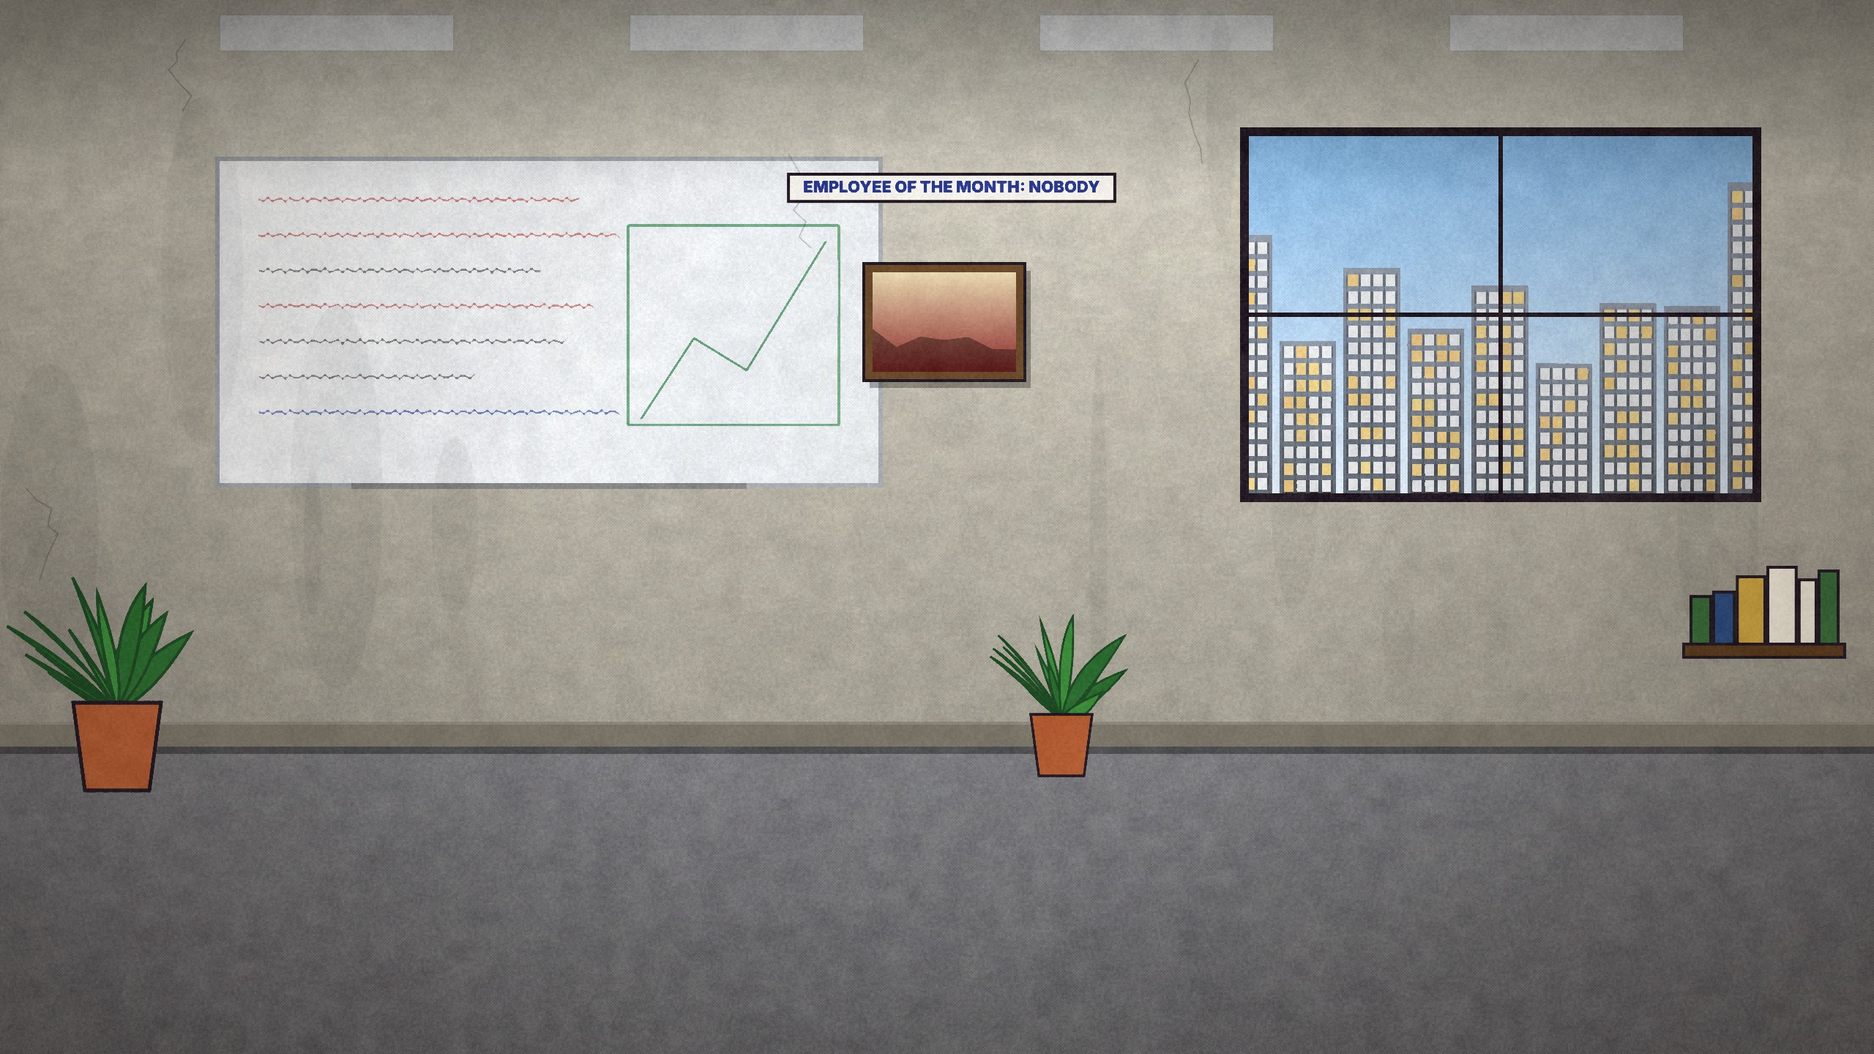
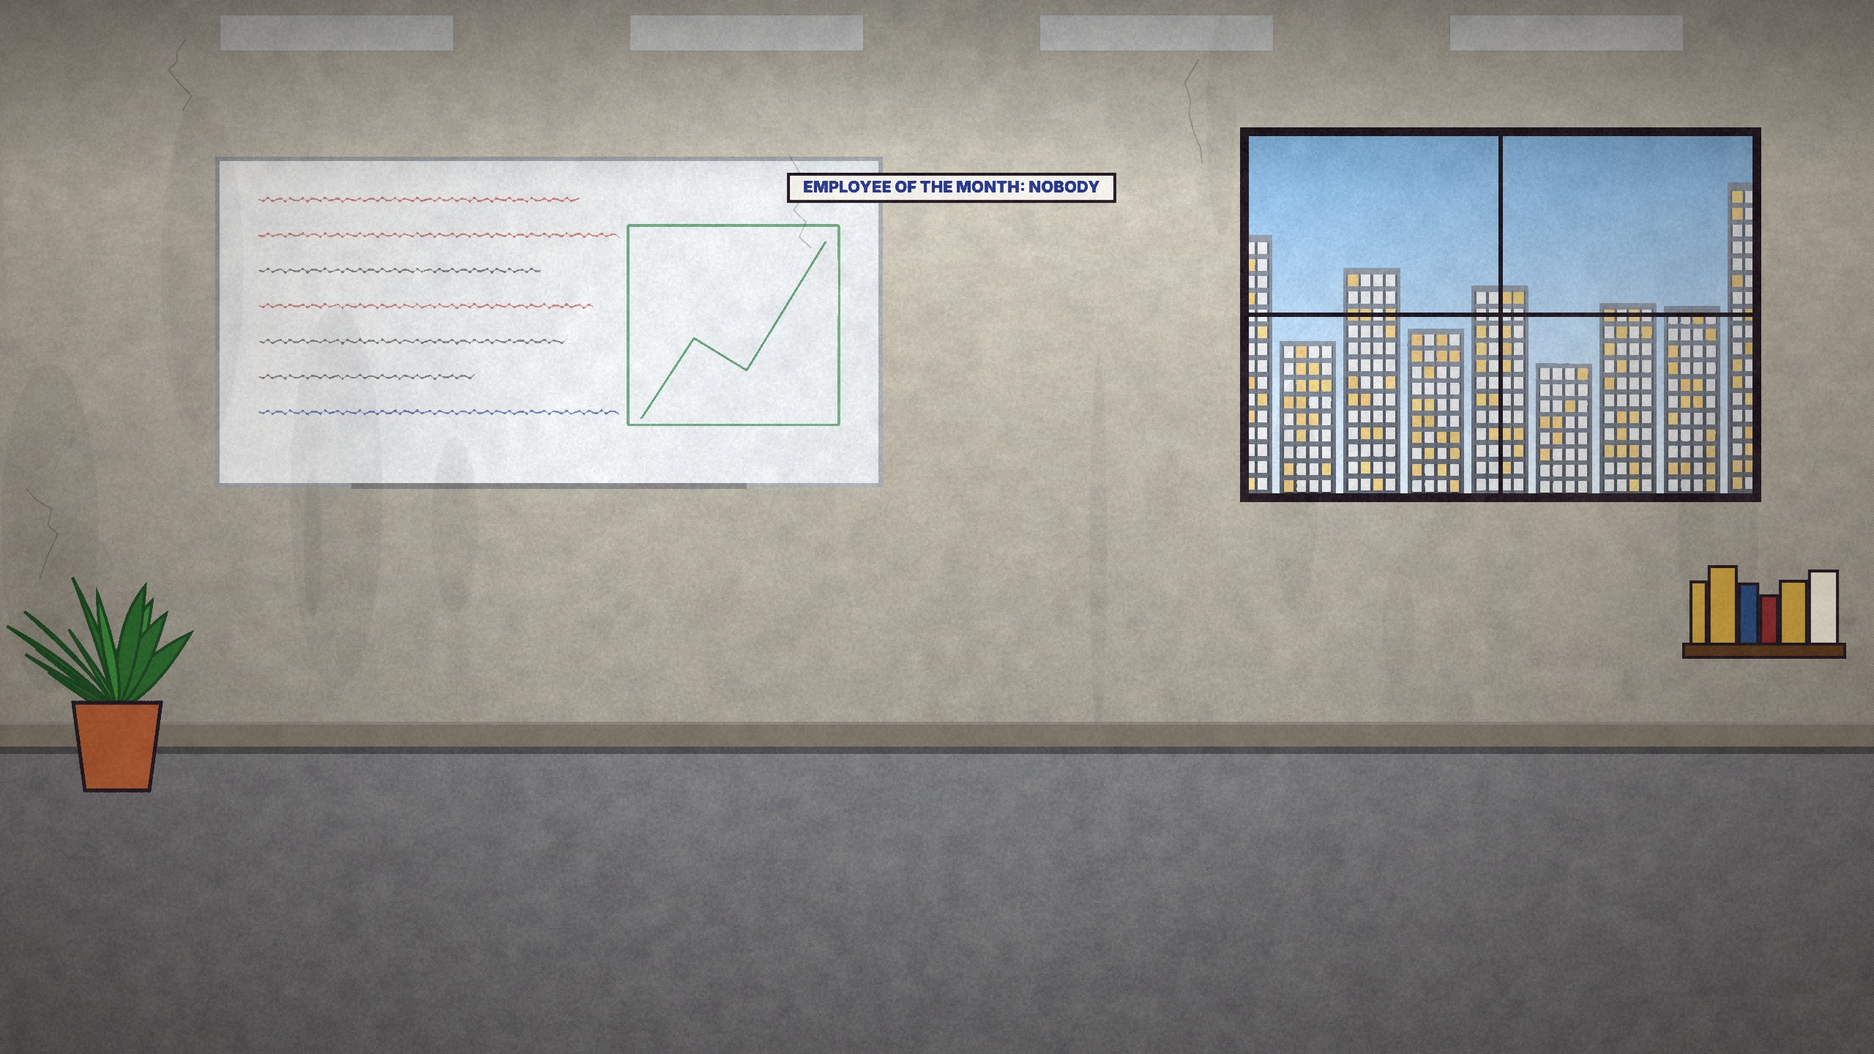
DumDown Deadpool 2: QA fixes (dress props, device in hand, grades), gags, assemble, chapters, thumb
Claude-Session: https://claude.ai/code/session_01CFreaN5kW6ZNcy992vtCRt

Changed region(s): [[0.4375, 0.25, 0.5625, 0.375], [0.875, 0.5312, 1.0, 0.625], [0.5312, 0.5938, 0.5938, 0.75]]

diff --git a/dumdown/scripts/deadpool-2/animation/plates.js b/dumdown/scripts/deadpool-2/animation/plates.js
@@ -83,12 +83,12 @@ PLATES.icebox = (c, r, W, H) => { wash(c, r, [0, 0, W, H], '#2a3a4e', '#0a1220')
   floor(c, r, 1000, '#5a6676', '#3a4656', false); for (let i = 0; i < 6; i++) { c.strokeStyle = '#ffd23d'; c.lineWidth = 10; c.setLineDash([60, 40]); c.beginPath(); c.moveTo(0, 1060 + i * 70); c.lineTo(W, 1060 + i * 70); c.stroke(); c.setLineDash([]); break; }
   for (let i = 0; i < 260; i++) { c.fillStyle = 'rgba(220,240,255,.5)'; c.fillRect(r() * W, r() * H, 2, 2); } finish(c, r, W, H, { oil: 2, grain: 12, vig: .55 }); };
 // 12. The pit in the Icebox basement: chains, dark, two red eyes possible
-PLATES.pit = (c, r, W, H) => { wash(c, r, [0, 0, W, H], '#121822', '#040608'); brutalWall(c, r, 0, 0, W, 1100, '#222a34'); c.fillStyle = '#05070a'; c.beginPath(); c.ellipse(1280, 1180, 900, 220, 0, 0, 7); c.fill();
+PLATES.pit = (c, r, W, H) => { wash(c, r, [0, 0, W, H], '#121822', '#040608'); brutalWall(c, r, 0, 0, W, 1100, '#3a4452'); c.fillStyle = '#05070a'; c.beginPath(); c.ellipse(1280, 1180, 900, 220, 0, 0, 7); c.fill();
   for (let i = 0; i < 8; i++) { const x = 600 + i * 190; c.strokeStyle = '#5a6270'; c.lineWidth = 10; c.setLineDash([24, 10]); c.beginPath(); c.moveTo(x, 0); c.quadraticCurveTo(x + 40, 600, 1280 + (x - 1280) * .3, 1150); c.stroke(); c.setLineDash([]); }
   glow(c, 1280, 200, 500, '#6a8aff', .15); finish(c, r, W, H, { oil: 2, grain: 12, vig: .7 }); };
 // 13. Night road with lightning crater
-PLATES.road_night = (c, r, W, H) => { M.sky(c, r, W, 900, '#04040c', '#1a1a3a'); M.clouds(c, r, W, 40, 400, 10, '#3a3a5a', '#0a0a18'); M.distantTrees(c, r, W, 900, 50, '#0a0e14');
-  pr(c, r, 0, 900, W, 540, '#1a1a20', { density: 120 }); for (let i = 0; i < 6; i++) { c.fillStyle = 'rgba(232,220,160,.6)'; c.fillRect(i * 460 + 80, 1180, 220, 16); }
+PLATES.road_night = (c, r, W, H) => { M.sky(c, r, W, 900, '#0c0e22', '#2c2e5a'); M.clouds(c, r, W, 40, 400, 10, '#3a3a5a', '#0a0a18'); M.distantTrees(c, r, W, 900, 50, '#0a0e14');
+  pr(c, r, 0, 900, W, 540, '#2c2c36', { density: 120 }); for (let i = 0; i < 6; i++) { c.fillStyle = 'rgba(232,220,160,.6)'; c.fillRect(i * 460 + 80, 1180, 220, 16); }
   c.fillStyle = '#0a0a0e'; c.beginPath(); c.ellipse(1280, 1120, 420, 80, 0, 0, 7); c.fill(); glow(c, 1280, 1100, 500, '#6ab4ff', .4); finish(c, r, W, H, { oil: 2, grain: 12, vig: .6 }); };
 // 14. Weasel's bar: dim, neon beer signs, bottles
 PLATES.bar = (c, r, W, H) => { wash(c, r, [0, 0, W, H], '#3a2418', '#120a06'); pr(c, r, 0, 0, W, 1000, '#4a2c1a', { density: 140 });
@@ -148,13 +148,13 @@ function cam(c, x, y) { c.fillStyle = '#d8d8d0'; c.strokeStyle = INK; c.lineWidt
 function rivets(c, fy) { c.fillStyle = 'rgba(200,210,220,.35)'; for (let x = 40; x < 2560; x += 80) for (let y = 60; y < fy; y += 300) { c.beginPath(); c.arc(x, y, 5, 0, 7); c.fill(); } }
 const DRESS = {
   apt_barrels: (c, r) => { grime(c, r, 1060); base(c, 1060, '#2a1a14'); planks(c, r, 1060); sconce(c, 1450, 480, '#ffb070'); frame(c, r, 1280, 250, 180, 140, 3); shelf(c, r, 2340, 760, 200); pendant(c, 900, 120, '#ffb070'); },
-  apt_warm: (c, r) => { grime(c, r, 1060, .6); base(c, 1060, '#2a1a14'); planks(c, r, 1060); sconce(c, 1250, 470); frame(c, r, 180, 300, 200, 160, 0); frame(c, r, 1350, 640, 150, 120, 1); plant(c, r, 1060, 1100, .9); shelf(c, r, 120, 760, 240); },
-  bar: (c, r) => { grime(c, r, 1000, .5); [500, 1280, 2060].forEach(x => pendant(c, x, 60, '#ffc070')); sign(c, 1280, 760, 'NO CAPES', '#1a1214', '#ff5a3a', 30); },
+  apt_warm: (c, r) => { grime(c, r, 1060, .6); base(c, 1060, '#2a1a14'); planks(c, r, 1060); sconce(c, 1250, 470); frame(c, r, 180, 300, 200, 160, 0); frame(c, r, 1350, 640, 150, 120, 1); shelf(c, r, 120, 760, 240); },
+  bar: (c, r) => { grime(c, r, 1000, .5); [500, 1280, 2060].forEach(x => pendant(c, x, 60, '#ffc070')); },
   classroom: (c, r) => { grime(c, r, 1040, .5); base(c, 1040, '#5a4a3a'); planks(c, r, 1040); frame(c, r, 300, 300, 180, 220, 1); plant(c, r, 2460, 1090, .9); sign(c, 1500, 800, 'NO POWERS IN CLASS', '#f4f1ea', '#a01a1a', 26); [700, 1600].forEach(x => pendant(c, x, 40, '#fff4d8')); },
-  office: (c, r) => { grime(c, r, 1020, .4); base(c, 1020, '#7a7468'); plant(c, r, 160, 1080, 1); plant(c, r, 1450, 1060, .7); sign(c, 1300, 260, 'EMPLOYEE OF THE MONTH: NOBODY', '#f4f1ea', '#2a3990', 22); frame(c, r, 1180, 360, 220, 160, 2); shelf(c, r, 2300, 880, 220); },
+  office: (c, r) => { grime(c, r, 1020, .4); base(c, 1020, '#7a7468'); plant(c, r, 160, 1080, 1); sign(c, 1300, 260, 'EMPLOYEE OF THE MONTH: NOBODY', '#f4f1ea', '#2a3990', 22); shelf(c, r, 2300, 880, 220); },
   future_home: (c, r) => { grime(c, r, 1040, .5); base(c, 1040, '#2a2a3a'); planks(c, r, 1040, '#3a3a4a'); frame(c, r, 1150, 330, 240, 180, 1); plant(c, r, 2400, 1090, .8); sconce(c, 900, 470, '#c8d8ff'); },
   mansion_hall: (c, r) => { grime(c, r, 1040, .4); base(c, 1040, '#3a2414'); planks(c, r, 1100); [500, 1280, 2060].forEach(x => sconce(c, x, 640, '#ffd890')); plant(c, r, 140, 1110, 1.1); plant(c, r, 2420, 1110, 1.1); },
-  icebox: (c, r) => { grime(c, r, 1000, 1.2); pipe(c, 130); rivets(c, 1000); stripes(c, 0, 960, 2560, 40); sign(c, 1280, 330, 'BLOCK C · MUTANTS', '#e8e0c8', '#a01a1a', 34); cam(c, 1220, 600); cam(c, 2480, 260); },
+  icebox: (c, r) => { grime(c, r, 1000, 1.2); pipe(c, 130); rivets(c, 1000); stripes(c, 0, 960, 2560, 40); sign(c, 1280, 330, 'BLOCK C · MUTANTS', '#e8e0c8', '#a01a1a', 34); cam(c, 2480, 260); },
   truck: (c, r) => { grime(c, r, 1060, 1); pipe(c, 110, '#3a3a40'); rivets(c, 1060); stripes(c, 0, 1020, 2560, 36); sign(c, 1280, 360, 'NO TALKING', '#ffd23d', '#1a1a1a', 34); },
 };
 for (const k in DRESS) { const f = PLATES[k]; if (!f) continue; PLATES[k] = (c, r, W, H) => { f(c, r, W, H); DRESS[k](c, r); finish(c, r, W, H, { oil: 1, grain: 6, vig: .25 }); }; }

diff --git a/dumdown/scripts/deadpool-2/animation/acts/act13.js b/dumdown/scripts/deadpool-2/animation/acts/act13.js
@@ -4,7 +4,7 @@ window.ACT = { timing: window.TIMING, shots: [
  { p: 0, f: .4, plate: 'bar', cam: { z: [1.3, 1.5], x: 1280, y: 880 }, chars: [{ c: 'wadeBaby', x: 1280, y: 1260, s: 1.5, expr: 'happy', pose: 'hips' }, { c: 'weasel', x: 1800, y: 1260, s: 1.45, view: 'threequarter', dir: -1, expr: 'shock' }], pops: [{ t: 'You cannot unsee this.', at: 2.5 }] },
  { p: 1, plate: 'apt_warm', grade: ['#1a1a3a', .35, 'multiply'], cam: { z: [1.3, 1.5], x: 1280, y: 820 }, chars: [{ c: 'wadeBaby', x: 1000, y: 1260, s: 1.5, view: 'threequarter', expr: 'smug', talk: true }, { c: 'cable', x: [1700, 1600], y: 1260, s: 1.35, view: 'threequarter', dir: -1, expr: 'deadpan', t0: 1.5 }, { c: 'weasel', x: [2000, 2500], y: 1260, s: 1.45, view: 'threequarter', expr: 'nervous' }] },
  { p: 2, plate: 'future_home', cam: { z: [1.2, 1.35], x: 1280, y: 820 }, props: [{ k: 'teddy', x: 1520, y: 1150, s: .7, clean: true, layer: 'front' }], chars: [{ c: 'cableWife', x: 1050, y: 1260, s: 1.45, view: 'threequarter', expr: 'smile' }, { c: 'hope', x: 1450, y: 1260, s: 1.45, view: 'threequarter', dir: -1, expr: 'happy' }], grade: ['#8ac0ff', .25] },
- { p: 2, f: .55, plate: 'future_home', grade: ['#1a1020', .7, 'multiply'], cam: { z: [2.0, 2.5], x: 1300, y: 1150 }, props: [{ k: 'teddy', x: 1300, y: 1240, s: .8 }], fx: ['snow'], pops: [{ t: 'Her bear.', at: 1 }] },
+ { p: 2, f: .55, plate: 'future_home', grade: ['#2a2040', .35, 'multiply'], cam: { z: [2.0, 2.5], x: 1300, y: 1150 }, props: [{ k: 'teddy', x: 1300, y: 1240, s: .8 }], fx: ['snow'], pops: [{ t: 'Her bear.', at: 1 }] },
  { p: 3, plate: 'apt_warm', grade: ['#1a1a3a', .35, 'multiply'], cam: { z: [1.5, 1.7], x: 1280, y: 800 }, chars: [{ c: 'wadeBaby', x: 1050, y: 1260, s: 1.5, view: 'threequarter', expr: 'sad' }, { c: 'cable', x: 1600, y: 1260, s: 1.35, view: 'threequarter', dir: -1, expr: 'sad', talk: true }], pops: [{ t: 'SO HE\'S... KIND OF RIGHT.', at: 4 }] },
  { p: 4, plate: 'apt_warm', cam: { z: [1.9, 2.1], x: 1300, y: 800 }, chars: [{ c: 'wadeBaby', x: 1100, y: 1260, s: 1.5, view: 'threequarter', expr: 'smug', pose: 'point' }, { c: 'cable', x: 1550, y: 1260, s: 1.35, view: 'threequarter', dir: -1, expr: 'deadpan' }], big: ['30 SECONDS', 4.4, 8.2, '#ffd23d'] },
 ]};

diff --git a/dumdown/scripts/deadpool-2/animation/acts/act03.js b/dumdown/scripts/deadpool-2/animation/acts/act03.js
@@ -5,6 +5,6 @@ window.ACT = { timing: window.TIMING, shots: [
  { p: 1, plate: 'apt_warm', cam: { z: [1.5, 1.7], x: 1130, y: 800 }, chars: [{ c: 'wadeFace', x: 900, y: 1250, s: 1.55, view: 'threequarter', expr: 'shock' }, { c: 'vanessa', x: 1350, y: 1250, s: 1.5, view: 'threequarter', dir: -1, expr: 'happy', talk: true }], pops: [{ t: 'Baby names: Todd? Cher?', at: 4 }] },
  { p: 2, plate: 'apt_warm', cam: { z: [1.8, 2.0], x: 1350, y: 720 }, chars: [{ c: 'vanessa', x: 1350, y: 1250, s: 1.5, view: 'threequarter', dir: -1, expr: 'smile', talk: true }] },
  { p: 2, f: .55, plate: 'apt_warm', cam: { z: [1.8, 2.0], x: 900, y: 720 }, chars: [{ c: 'wadeFace', x: 900, y: 1250, s: 1.55, view: 'threequarter', expr: 'sad' }], pops: [{ t: '"Better than we used to be."', at: .3 }] },
- { p: 3, plate: 'apt_warm', grade: ['#1a1030', .5, 'multiply'], cam: { z: [1.2, 1.35], x: 1500, y: 800, shake: 6 }, props: [{ k: 'gun', on: 0, x: 0, y: 0, dx: -18, dy: -22, s: .45, dir: -1, layer: 'front' }], chars: [{ c: 'thug', x: 2150, y: 1250, s: 1.5, view: 'threequarter', dir: -1, expr: 'angry', pose: 'point' }, { c: 'vanessa', x: 1200, y: 1250, s: 1.5, view: 'threequarter', expr: 'shock' }] },
- { p: 4, plate: 'apt_warm', grade: ['#101020', .6, 'multiply'], cam: { z: [2.6, 3.2], x: 1280, y: 1150 }, props: [{ k: 'token', x: [1100, 1280], y: 1180, s: 1.3, spin: 1 }] },
+ { p: 3, plate: 'apt_warm', grade: ['#1a1030', .35, 'multiply'], cam: { z: [1.2, 1.35], x: 1500, y: 800, shake: 6 }, props: [{ k: 'gun', on: 0, x: 0, y: 0, dx: -18, dy: -22, s: .45, dir: -1, layer: 'front' }], chars: [{ c: 'thug', x: 2150, y: 1250, s: 1.5, view: 'threequarter', dir: -1, expr: 'angry', pose: 'point' }, { c: 'vanessa', x: 1200, y: 1250, s: 1.5, view: 'threequarter', expr: 'shock' }] },
+ { p: 4, plate: 'apt_warm', grade: ['#101020', .4, 'multiply'], cam: { z: [2.6, 3.2], x: 1280, y: 1150 }, props: [{ k: 'token', x: [1100, 1280], y: 1180, s: 1.3, spin: 1 }] },
 ]};

diff --git a/dumdown/scripts/deadpool-2/animation/gags/gags.js b/dumdown/scripts/deadpool-2/animation/gags/gags.js
@@ -166,9 +166,11 @@ S.reviews = async t => {
   const sw = ev('swipe'), k = io(seg(t, sw, sw + .35));
   const card = (y, who, n, lines, al) => { ctx.globalAlpha = al; rr(240, y, W - 480, 230, 16, '#fff', '#d0d0d8', 3); ctx.fillStyle = '#c8d8e8'; ctx.beginPath(); ctx.arc(320, y + 60, 40, 0, 7); ctx.fill(); txt(who, 380, y + 50, 30, '#231A24', { align: 'left' }); stars(390, y + 92, n, 34);
     lines.forEach((l, i) => txt(l, 280, y + 140 + i * 40, 30, '#333', { align: 'left', w: 600 })); ctx.globalAlpha = 1; };
+  const sc = t * 9; ctx.save(); ctx.translate(0, -sc);
   const r1 = seg(t, sp('READ').t0 - .2, sp('READ').t0 + .2);
   card(BAR + 130 - 300 * k, 'Russell, 14', 1, ['Room was cold. Staff were cold. Food was cold.', 'My neighbour was a giant man in the basement. Would not recommend.'], r1 * (1 - k));
   if (t > sw) card(BAR + 130 + 260 * (1 - k), 'Anonymous critic', 1, ['Too much foreshadowing.'], k);
+  ctx.restore(); { const cx = 900 + Math.sin(t * .9) * 420, cy = 640 + Math.sin(t * 1.3) * 160; ctx.fillStyle = '#fff'; ctx.strokeStyle = '#231A24'; ctx.lineWidth = 4; ctx.beginPath(); ctx.moveTo(cx, cy); ctx.lineTo(cx, cy + 56); ctx.lineTo(cx + 14, cy + 42); ctx.lineTo(cx + 30, cy + 70); ctx.lineTo(cx + 40, cy + 64); ctx.lineTo(cx + 26, cy + 38); ctx.lineTo(cx + 44, cy + 36); ctx.closePath(); ctx.fill(); ctx.stroke(); }
   if (t > sp('READ', 3).t0) { ctx.save(); ctx.translate(W - 420, H - BAR - 160); ctx.rotate(-.1); rr(-170, -50, 340, 100, 12, '#e23a3a', '#231A24', 6); txt('VERIFIED STAY', 0, 2, 34, '#fff'); ctx.restore(); } };
 S.gate = async t => {
   const cam = camW(t, { z: 1.1, x: 1280, y: 780 }); apply(cam); wall('#c8d4e0', '#9aa8b8', 1180, '#6a7480', '#3a424c');

diff --git a/dumdown/scripts/deadpool-2/animation/acts/act17.js b/dumdown/scripts/deadpool-2/animation/acts/act17.js
@@ -1,6 +1,6 @@
 // Act 17: THE END-CREDITS FIXES
 window.ACT = { timing: window.TIMING, shots: [
- { p: 0, plate: 'mansion_hall', title: ['BONUS', 'End-Credits Fixes'], cam: { z: [1.3, 1.5], x: 1280, y: 820 }, props: [{ k: 'device', x: 1280, y: 1000, s: 1, charges: 2 }], chars: [{ c: 'nega', x: 1000, y: 1260, s: 1.4, view: 'threequarter', expr: 'deadpan' }, { c: 'yukio', x: 1550, y: 1260, s: 1.4, view: 'threequarter', dir: -1, expr: 'happy' }] },
+ { p: 0, plate: 'mansion_hall', title: ['BONUS', 'End-Credits Fixes'], cam: { z: [1.3, 1.5], x: 1280, y: 820 }, props: [{ k: 'device', on: 1, side: 'R', s: .5, charges: 2, layer: 'front' }], chars: [{ c: 'nega', x: 1000, y: 1260, s: 1.4, view: 'threequarter', expr: 'deadpan' }, { c: 'yukio', x: 1550, y: 1260, s: 1.4, view: 'threequarter', dir: -1, expr: 'happy' }] },
  { p: 0, f: .55, plate: 'mansion_hall', fx: ['flash'], cam: { z: [1.6, 1.4], x: 1280, y: 820, shake: 12 }, props: [{ k: 'portalRing', x: 1280, y: 1250, s: 1 }], chars: [{ c: 'wade', x: 1280, y: 1260, s: 1.5, expr: 'excited', pose: 'fistPump' }] },
  { p: 1, plate: 'apt_warm', fx: ['flash'], cam: { z: [1.3, 1.45], x: 1280, y: 820 }, chars: [{ c: 'wade', x: 1100, y: 1260, s: 1.5, view: 'threequarter', expr: 'happy' }, { c: 'vanessa', x: 1500, y: 1260, s: 1.45, view: 'threequarter', dir: -1, expr: 'happy' }], pops: [{ t: 'Saved: Vanessa', at: .4, dur: 2 }] },
  { p: 1, f: .3, plate: 'mansion_ext', fx: ['flash'], cam: { z: [1.3, 1.45], x: 1280, y: 820 }, chars: [{ c: 'peter', x: 1280, y: 1300, s: 1.4, expr: 'happy', pose: 'thumbsUp' }], pops: [{ t: 'Saved: Peter', at: .3, dur: 2 }] },

diff --git a/dumdown/scripts/deadpool-2/animation/page_thumb.html b/dumdown/scripts/deadpool-2/animation/page_thumb.html
@@ -1,0 +1,7 @@
+<!doctype html><html><head><meta charset="utf-8"></head><body style="margin:0;background:#000"><canvas id="c" width="1920" height="1080"></canvas>
+<script src="kit.js"></script>
+<script>var module = { exports: {} }; var require = () => window.DumDown;</script>
+<script src="cast.cjs"></script>
+<script>window.CAST = module.exports.C; window.PLATE_NAMES = ["apt_barrels", "apt_warm", "bar", "classroom", "comic", "dream", "future_home", "heaven", "highway", "hongkong", "icebox", "mansion_ext", "mansion_hall", "nyc_street", "office", "orphanage", "orphanage_fire", "pit", "road_night", "rooftop_dusk", "sky_drop", "truck"]; window.LEAD = 0.6; window.TIMING = {durs:[3],gap:.35};</script>
+<script src="engine.js"></script><script src="fx.js"></script><script src="cards.js"></script><script src="props.js"></script>
+<script src="thumb/thumb_act.js"></script><script src="shots.js"></script></body></html>

diff --git a/dumdown/scripts/deadpool-2/animation/thumb/thumb_act.js b/dumdown/scripts/deadpool-2/animation/thumb/thumb_act.js
@@ -1,0 +1,5 @@
+// Thumbnail scene (rendered as a one-shot act, text added in thumb_mk.py)
+window.ACT = { timing: { durs: [3], gap: .35 }, tail: 0, shots: [
+ { p: 0, plate: 'orphanage_fire', grade: ['#ff6a2a', .22], noHeadFit: true, cam: { z: [2.2, 2.2], x: 1540, y: 860 }, props: [{ k: 'gun', on: 0, dx: -20, dy: -24, s: .5, layer: 'front', dir: -1 }, { k: 'token', x: 1652, y: 915, s: .95, layer: 'front' }],
+   chars: [{ c: 'cable', x: 1990, y: 1330, s: 1.45, view: 'threequarter', dir: -1, expr: 'angry', pose: 'point' }, { c: 'wade', x: 1650, y: 1330, s: 1.6, view: 'threequarter', dir: 1, expr: 'shock' }] },
+]};

diff --git a/dumdown/scripts/deadpool-2/animation/assemble_full.py b/dumdown/scripts/deadpool-2/animation/assemble_full.py
@@ -1,18 +1,18 @@
-# Assemble the Loki S1+S2 full video with ONE lossy video encode (CFR 24 fps).
+# Assemble the Deadpool 2 full video with ONE lossy video encode (CFR 24 fps).
 # Segments (act pieces + gags spliced in at their act points) are decoded one at a time and piped as raw frames
 # into a single x264 encoder, so memory stays flat (a 42-input filter graph ran out of memory).
 # Audio is cut at the same frame boundaries (2000 samples per frame at 48 kHz), joined as PCM, then two-pass loudnorm -14.
 import json, subprocess, sys, os, wave
 sys.path.insert(0, 'gags'); from gags_data import G
-SCR = '/tmp/claude-0/-home-user/acf60ddd-1269-5955-894d-60b48246689c/scratchpad/loki'
-OUT = f'{SCR}/full/DumDown_Loki_S1S2_FULL_v1.mp4'; os.makedirs(f'{SCR}/full', exist_ok=True)
+SCR = os.environ.get('SCR', '/tmp/dp2work')
+OUT = f'{SCR}/full/DumDown_Deadpool2_FULL_v1.mp4'; os.makedirs(f'{SCR}/full', exist_ok=True)
 def dur(f): return float(subprocess.run(['ffprobe', '-v', 'error', '-show_entries', 'format=duration', '-of', 'csv=p=0', f], capture_output=True, text=True).stdout)
 segs = []  # (video, audio, start_frame, n_frames)
-for n in range(15):
+for n in range(19):
     v = f'{SCR}/acts/act{n:02d}.mp4'; a = f'{SCR}/mix/act{n:02d}.wav'; tot = round(min(dur(v), dur(a)) * 24)
-    pts = sorted([g for g in G if g['act'] == n], key=lambda g: g['at']); cuts = [0] + [round(g['at'] * 24) for g in pts] + [tot]
+    pts = sorted([g for g in G if g['act'] == n], key=lambda g: g['at']); cuts = [0] + [min(tot, round(g['at'] * 24)) for g in pts] + [tot]
     for k in range(len(cuts) - 1):
-        segs.append((v, a, cuts[k], cuts[k + 1] - cuts[k]))
+        if cuts[k + 1] > cuts[k]: segs.append((v, a, cuts[k], cuts[k + 1] - cuts[k]))
         if k < len(pts):
             gv = f'gags/out/gag{pts[k]["id"]:02d}.mp4'; segs.append((gv, gv, 0, round(dur(gv) * 24)))
 W, H, FB = 1920, 1080, 1920 * 1080 * 3 // 2
@@ -40,5 +40,5 @@ enc.stdin.close(); assert enc.wait() == 0
 m = subprocess.run(['ffmpeg', '-hide_banner', '-i', tmp, '-af', 'loudnorm=I=-14:TP=-1.5:LRA=11:print_format=json', '-f', 'null', '-'], capture_output=True, text=True).stderr
 j = json.loads(m[m.rindex('{'):m.rindex('}') + 1])
 ln = f"loudnorm=I=-14:TP=-1.5:LRA=11:measured_I={j['input_i']}:measured_TP={j['input_tp']}:measured_LRA={j['input_lra']}:measured_thresh={j['input_thresh']}:offset={j['target_offset']}:linear=true"
-subprocess.run(['ffmpeg', '-y', '-loglevel', 'error', '-i', tmp, '-map', '0:v', '-map', '0:a', '-c:v', 'copy', '-af', ln + ',aresample=48000', '-c:a', 'aac', '-b:a', '192k', '-ar', '48000', '-ac', '2', '-movflags', '+faststart', OUT], check=True)
+subprocess.run(['ffmpeg', '-y', '-loglevel', 'error', '-i', tmp, '-map', '0:v', '-map', '0:a', '-c:v', 'copy', '-af', ln + ',alimiter=limit=0.7:level=0,aresample=48000', '-c:a', 'aac', '-b:a', '192k', '-ar', '48000', '-ac', '2', '-movflags', '+faststart', OUT], check=True)
 print('full', dur(OUT), len(segs), 'segments', total, 'frames')

diff --git a/dumdown/scripts/deadpool-2/animation/thumb/thumb_mk.py b/dumdown/scripts/deadpool-2/animation/thumb/thumb_mk.py
@@ -1,0 +1,26 @@
+# Deadpool 2 thumbnail: engine-rendered scene (thumb_act.js, crisp vector, no upscale) + text. Free, no ElevenLabs.
+from PIL import Image, ImageDraw, ImageFont, ImageFilter, ImageEnhance
+import numpy as np, sys
+W,H=1280,720; ML=40; FB='/usr/share/fonts/opentype/inter/InterDisplay-Black.otf'
+bg=Image.open(sys.argv[1]).convert('RGB'); bg=ImageEnhance.Contrast(ImageEnhance.Color(bg).enhance(1.2)).enhance(1.1)
+x=np.arange(W); sc=np.zeros((H,W)); sc[:]=np.clip(1-(x-300)/260,0,1)**1.3*.8
+bg=Image.composite(Image.new('RGB',(W,H),'#0a0406'),bg,Image.fromarray((sc*255).astype('uint8')))
+# glow around the coin
+gl=Image.new('L',(W,H)); ImageDraw.Draw(gl).ellipse((500,350,670,530),fill=170); gl=gl.filter(ImageFilter.GaussianBlur(28))
+bg=Image.composite(Image.new('RGB',(W,H),'#ffd23d'),bg,gl.point(lambda v:v*.55)); 
+d=ImageDraw.Draw(bg); f=lambda s: ImageFont.truetype(FB,s)
+def fit(t,sz,mw):
+    while d.textlength(t,font=f(sz))>mw: sz-=2
+    return sz
+def stext(x,y,t,sz,fill,st=9):
+    sh=Image.new('L',(W,H)); ImageDraw.Draw(sh).text((x+5,y+7),t,font=f(sz),fill=200,stroke_width=st); sh=sh.filter(ImageFilter.GaussianBlur(5))
+    bg.paste(Image.new('RGB',(W,H),'#000'),(0,0),sh); d.text((x,y),t,font=f(sz),fill=fill,stroke_width=st,stroke_fill='#050505'); return d.textbbox((x,y),t,font=f(sz),stroke_width=st)
+def slab(x,y,t,sz,fill,col,px=18,py=8):
+    l,tp,r,b=d.textbbox((x,y),t,font=f(sz)); d.rounded_rectangle((l-px+6,tp-py+8,r+px+6,b+py+8),14,fill='#000'); d.rounded_rectangle((l-px,tp-py,r+px,b+py),14,fill=col,outline='#050505',width=6); d.text((x,y),t,font=f(sz),fill=fill); return (l-px,tp-py,r+px,b+py)
+tag='SUPER DUPER CUT EXPLAINED'; tf=f(24); tw=d.textlength(tag,font=tf); d.rounded_rectangle((ML-4,30,ML+tw+24,70),20,fill='#1a0608',outline='#ffd23d',width=3); d.text((ML+10,36),tag,font=tf,fill='#ffd23d')
+b=stext(ML,96,'THIS COIN',fit('THIS COIN',96,440),'#ffd23d')
+b=stext(ML,b[3]+8,'SAVED',fit('SAVED',120,440),'#ffffff')
+r=slab(ML+18,b[3]+26,'DEADPOOL 2',fit('DEADPOOL 2',96,392),'#ffffff','#d0202c')
+# arrow from text to coin
+d.line((300,r[3]+60,505,450),fill='#ffd23d',width=12); d.polygon([(518,440),(486,438),(505,470)],fill='#ffd23d')
+bg.save(sys.argv[2],quality=93); bg.resize((320,180),Image.LANCZOS).save(sys.argv[2].replace('.jpg','_small.jpg'))

diff --git a/dumdown/scripts/deadpool-2/animation/chapters.py b/dumdown/scripts/deadpool-2/animation/chapters.py
@@ -1,0 +1,12 @@
+# Print chapter start times (full video) per act, using the same segment maths as assemble_full.py
+import json, subprocess, sys, os
+sys.path.insert(0, 'gags'); from gags_data import G
+SCR = os.environ.get('SCR', '/tmp/dp2work')
+def dur(f): return float(subprocess.run(['ffprobe', '-v', 'error', '-show_entries', 'format=duration', '-of', 'csv=p=0', f], capture_output=True, text=True).stdout)
+t = 0; out = []
+for n in range(19):
+    v = f'{SCR}/acts/act{n:02d}.mp4'; a = f'{SCR}/mix/act{n:02d}.wav'; tot = round(min(dur(v), dur(a)) * 24)
+    out.append((n, t / 24)); pts = [g for g in G if g['act'] == n]
+    t += tot + sum(round(dur(f'gags/out/gag{g["id"]:02d}.mp4') * 24) for g in pts)
+for n, s in out: print(n, f'{int(s // 60)}:{int(s % 60):02d}')
+print('total', f'{int(t / 24 // 60)}:{int(t / 24 % 60):02d}')
